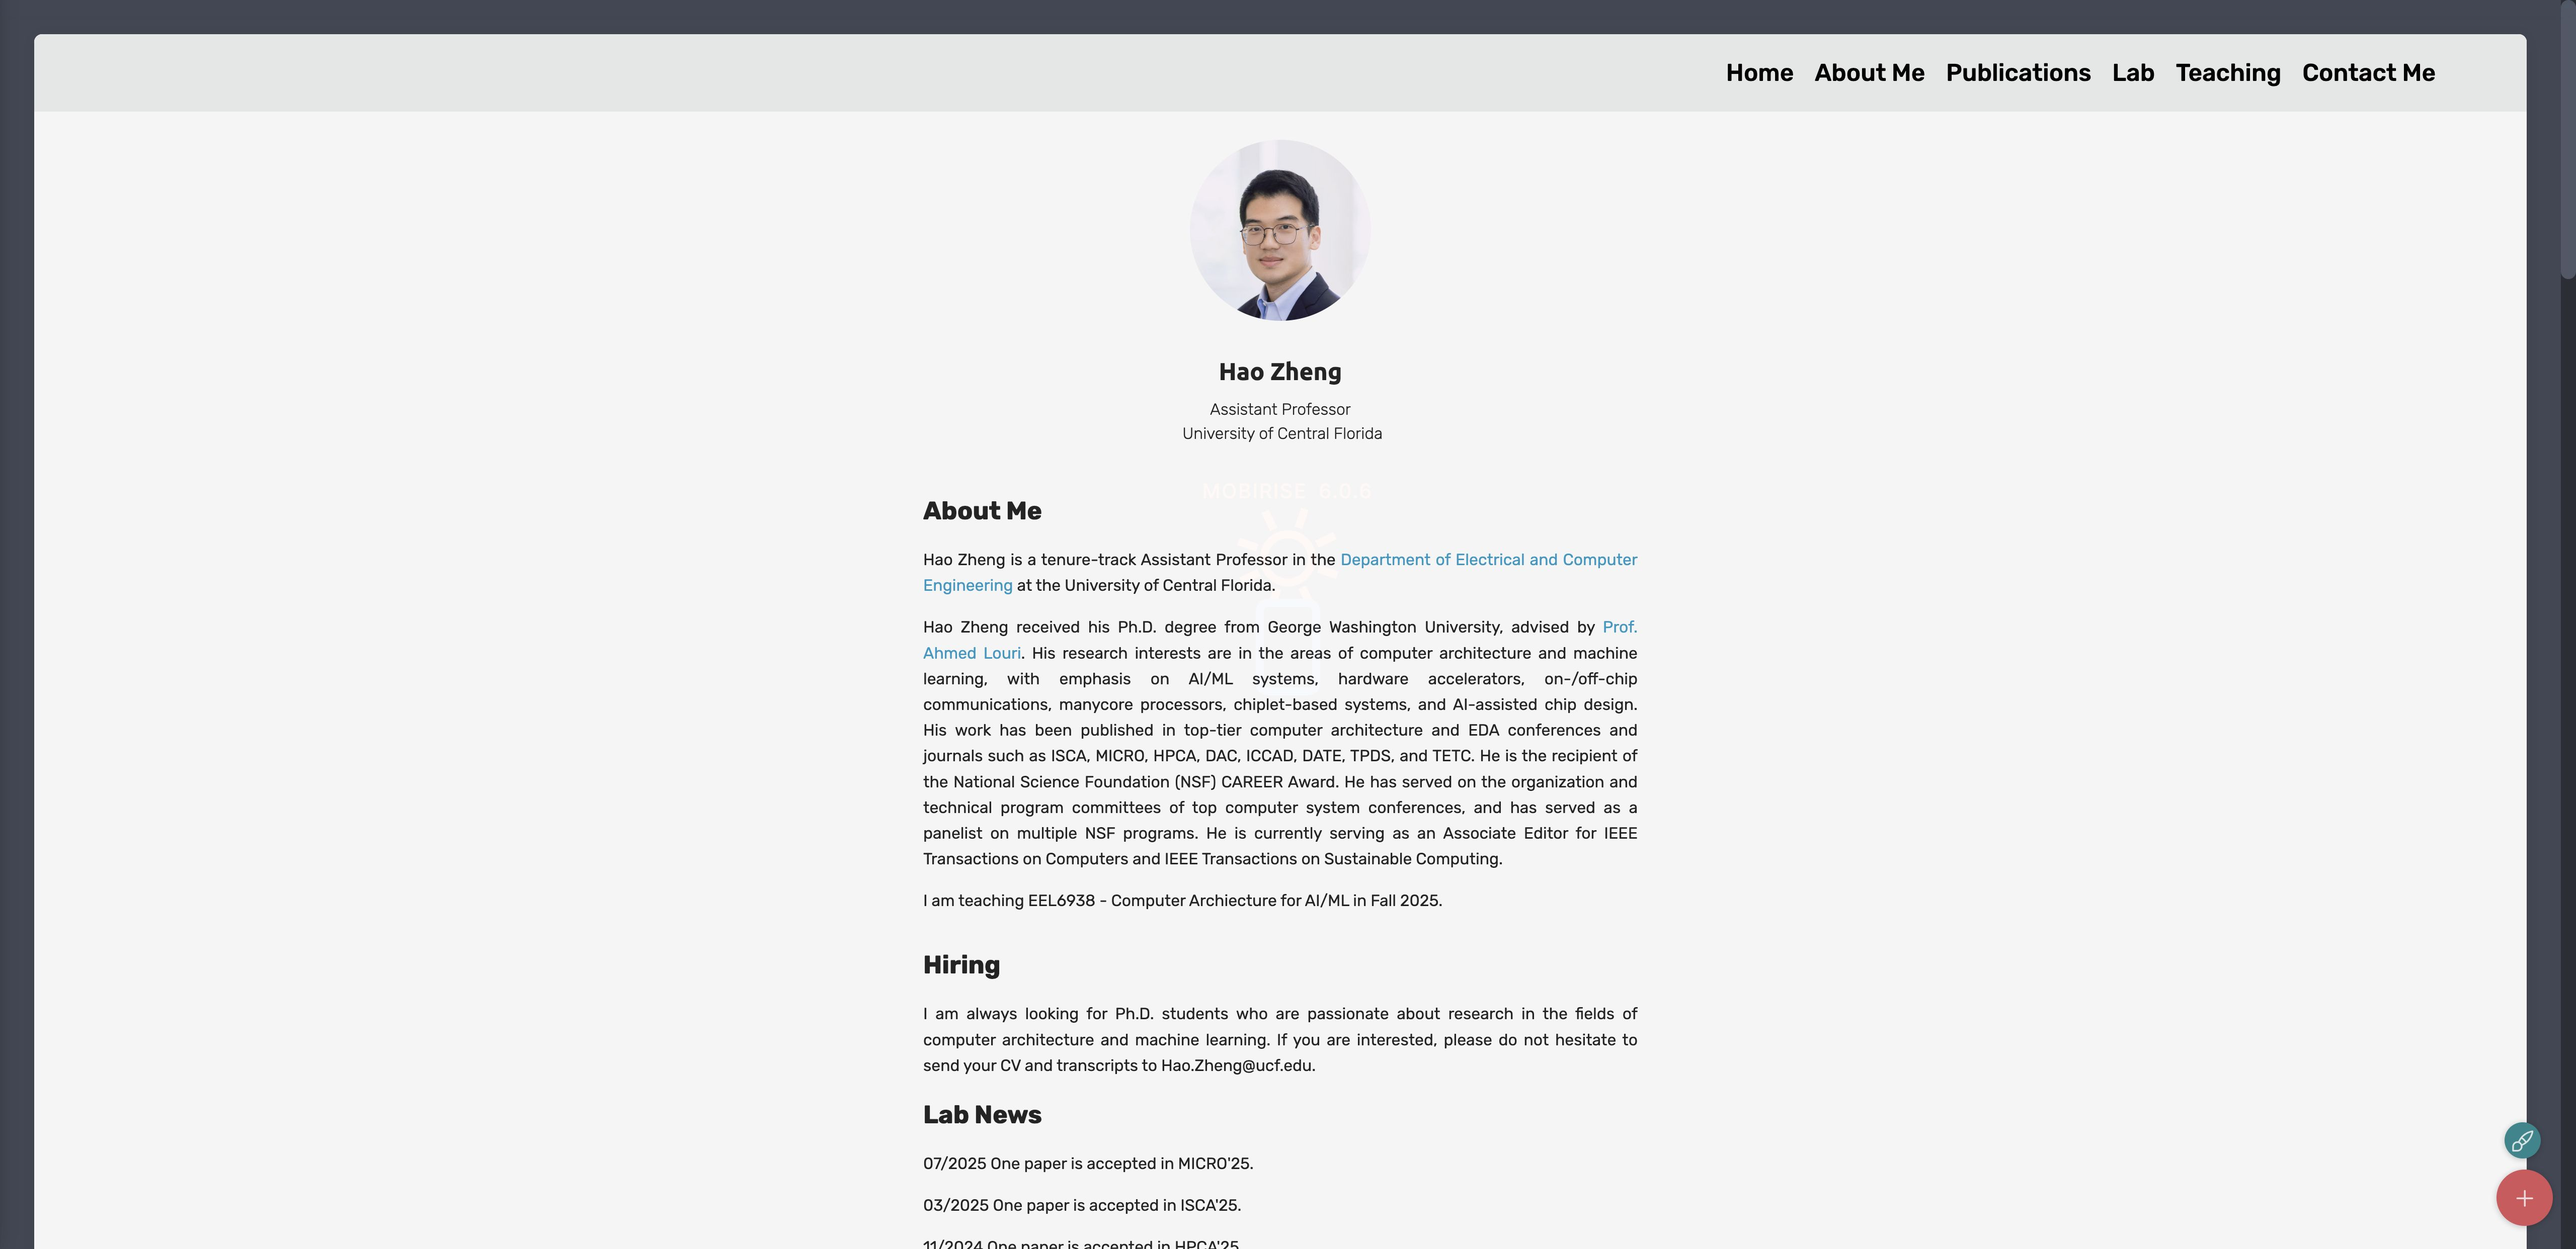
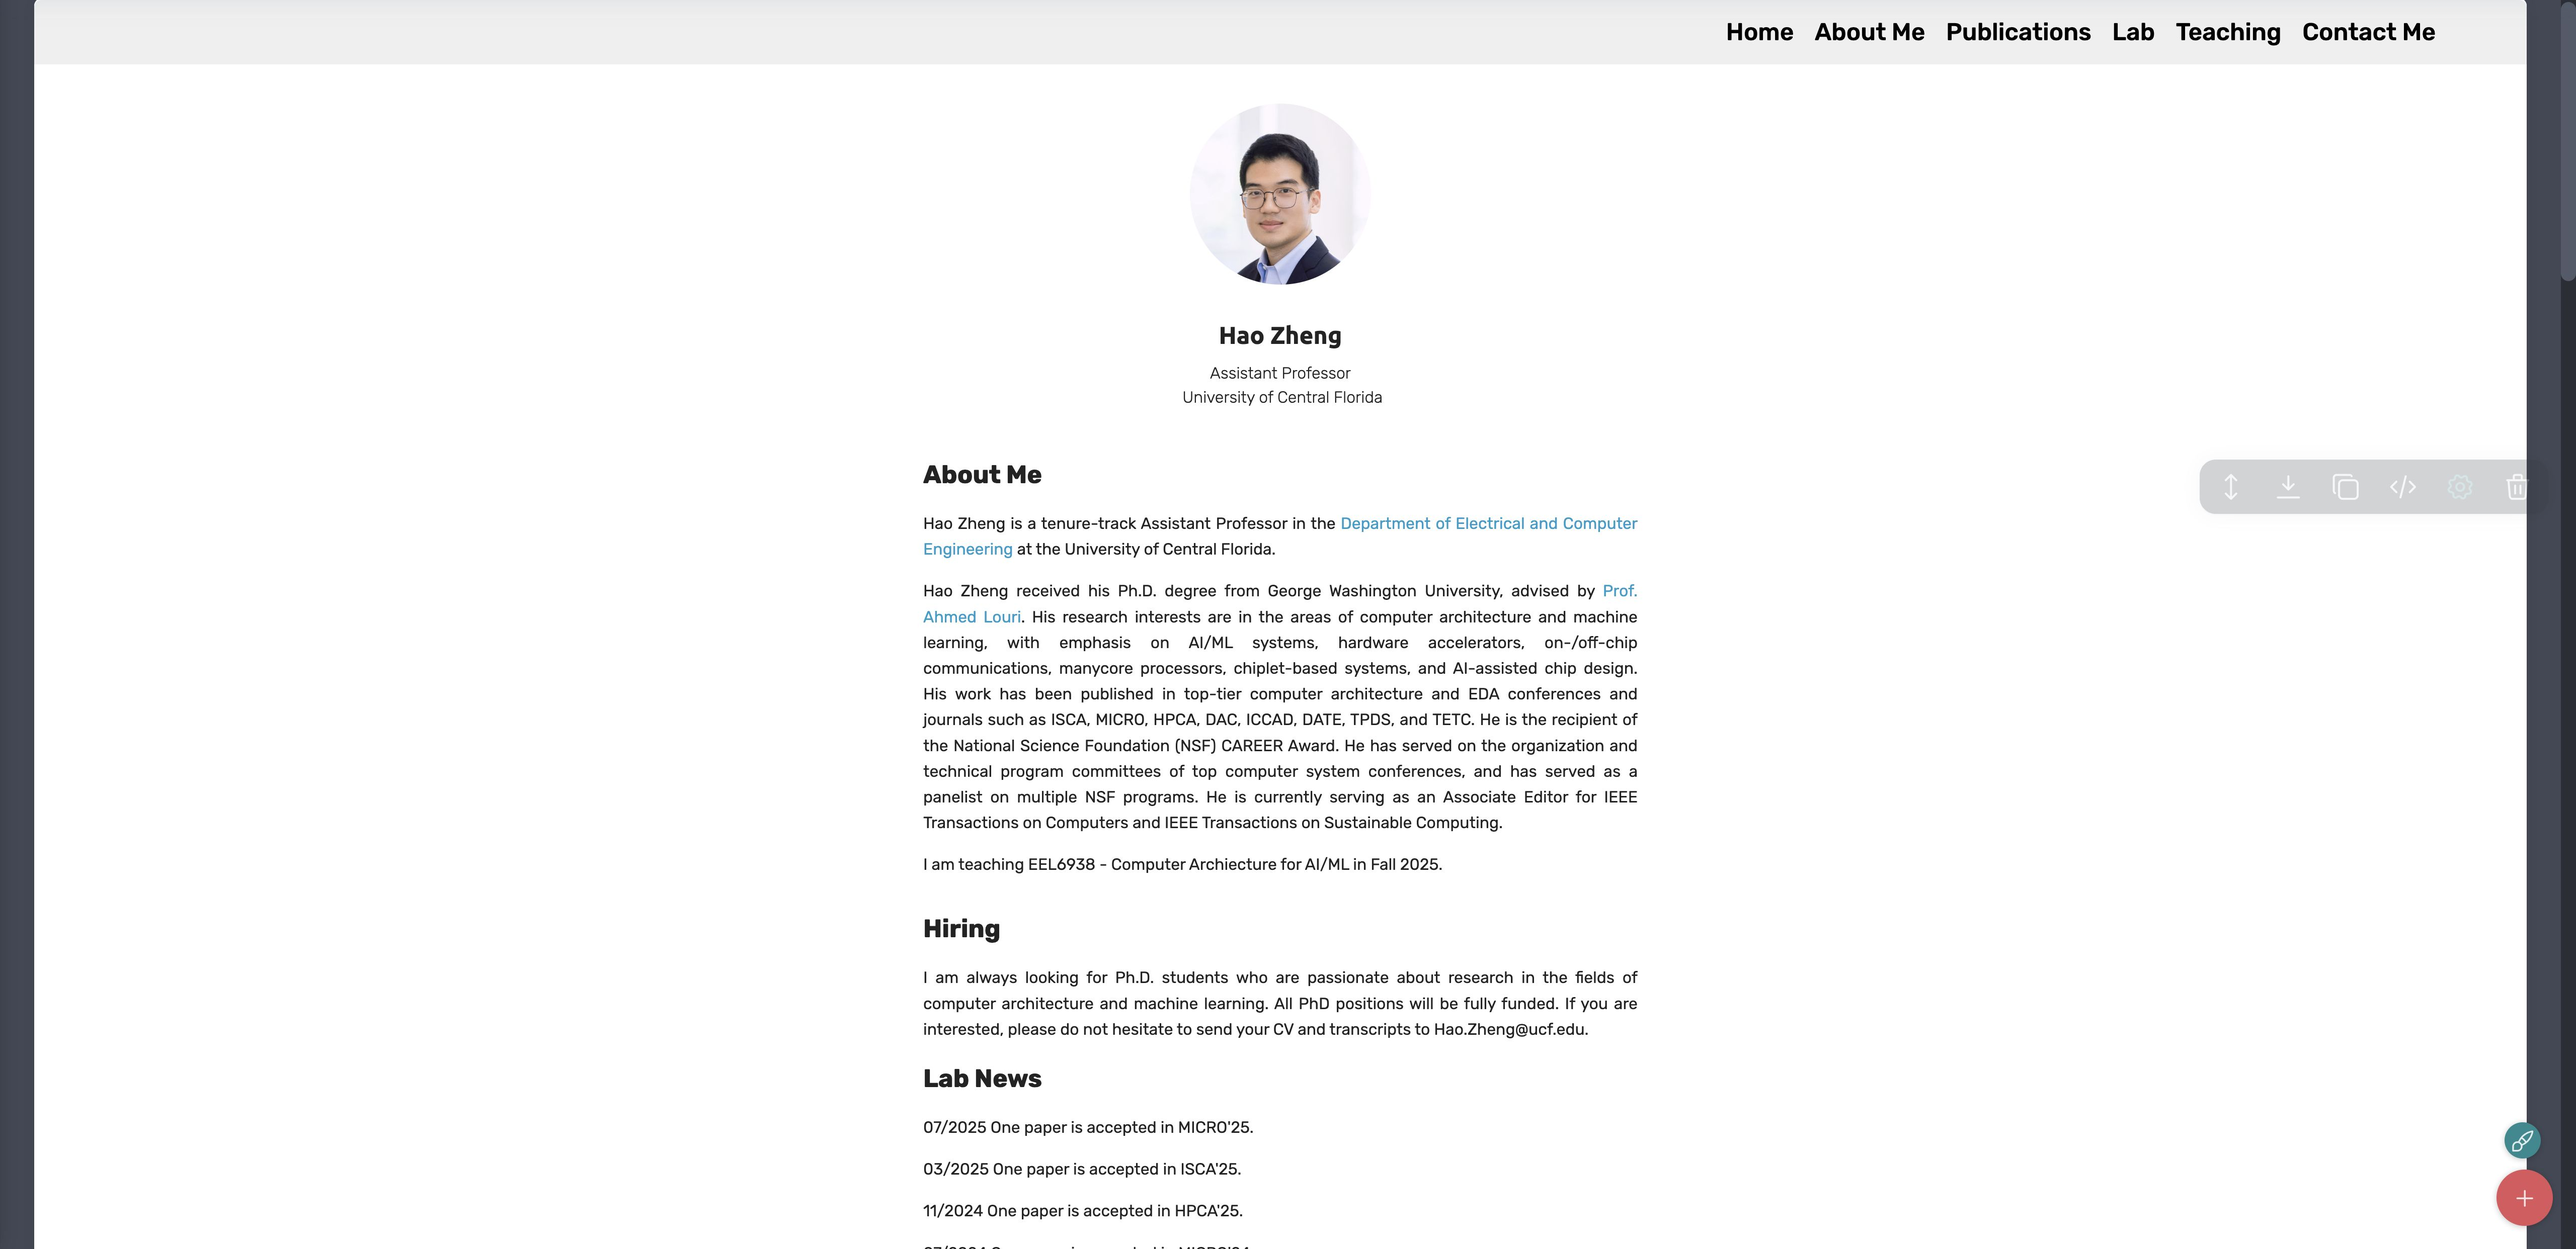
v3.9.5

Changed region(s): [[0.3438, 0.372, 0.6562, 1.0], [0.0, 0.0, 1.0, 0.372], [0.8438, 0.341, 1.0, 0.434]]

diff --git a/index.html b/index.html
@@ -22,7 +22,7 @@
   <noscript><link rel="stylesheet" href="https://fonts.googleapis.com/css?family=Ubuntu:300,300i,400,400i,500,500i,700,700i&display=swap"></noscript>
   <link rel="preload" href="https://fonts.googleapis.com/css?family=Rubik:300,400,500,600,700,800,900,300i,400i,500i,600i,700i,800i,900i&display=swap" as="style" onload="this.onload=null;this.rel='stylesheet'">
   <noscript><link rel="stylesheet" href="https://fonts.googleapis.com/css?family=Rubik:300,400,500,600,700,800,900,300i,400i,500i,600i,700i,800i,900i&display=swap"></noscript>
-  <link rel="preload" as="style" href="assets/mobirise/css/mbr-additional.css?v=GTirMR"><link rel="stylesheet" href="assets/mobirise/css/mbr-additional.css?v=GTirMR" type="text/css">
+  <link rel="preload" as="style" href="assets/mobirise/css/mbr-additional.css?v=I9ju79"><link rel="stylesheet" href="assets/mobirise/css/mbr-additional.css?v=I9ju79" type="text/css">
 
   
   
@@ -135,7 +135,7 @@
 
     <div class="container">
         <div class="media-container-row">
-            <div class="mbr-text col-12 mbr-fonts-style display-7 col-md-8"><p><span style="font-size: 25px;"><strong>Hiring</strong></span></p><p>I am always looking for Ph.D. students who are passionate about research in the fields of computer architecture and machine learning. All PhD positions will be fully funded. If you are interested, please do not hesitate to send your CV and transcripts to Hao.Zheng@ucf.edu.</p></div>
+            <div class="mbr-text col-12 mbr-fonts-style display-7 col-md-8"><p><span style="font-size: 25px;"><strong>Hiring</strong></span></p><p><strong>We have 3 Ph.D. openings for Fall/Spring 2026.</strong> We are looking for students who are passionate about research in the fields of computer architecture and machine learning. Our research aims to advance the theory and computer architecture developments for AI/ML, and the research outcomes will be integrated in real-world applications through our collaboration. All PhD positions will be fully funded. If you are interested, please do not hesitate to send your CV and transcripts to Hao.Zheng@ucf.edu.</p></div>
         </div>
     </div>
 </section>
@@ -217,7 +217,7 @@
     <div class="container">
         <div class="row">
             <div class="col-md-6">
-                <div class="google-map"><iframe frameborder="0" style="border:0" src="https://www.google.com/maps/embed/v1/place?key=AIzaSyB7QWkvlxV39ZsyKvhZRjPGVqlJFvxxNkw&amp;q=4328 Scorpius Street, Orlando, Florida, 32816-2362 " allowfullscreen=""></iframe></div>
+                <div class="google-map"><iframe frameborder="0" style="border:0" src="https://www.google.com/maps/embed/v1/place?key=AIzaSyDbnCmnHmtigIYiD8jIfeHQv7gW2ANhHD4&amp;q=4328 Scorpius Street, Orlando, Florida, 32816-2362 " allowfullscreen=""></iframe></div>
             </div>
             <div class="col-md-6">
                 
@@ -233,7 +233,7 @@
                 </div>
                 <div data-form-type="formoid">
                     <!---Formbuilder Form--->
-                    <form action="https://mobirise.eu/" method="POST" class="mbr-form form-with-styler" data-form-title="Mobirise Form"><input type="hidden" name="email" data-form-email="true" value="qxSbpaDnrf4ofAgaV3/8S1oc8P/u2I2lqvH7Pg1fnbKIar1Rce5aSN23zphj/B5DcFLAgJhtqZZ5GZs3GtR/CabhzfMtAivFCBSgXQEXE+bl5k35nRii+y1CO2qJvgxr.xBwrkdkgbg+a9LjhPyQgXQEpC2zk5YFgYYY7HiC9146Qd87rQFBfFFWC2gg04zKBSl3Fg66sb4nl3VSAq840jBeRd5dNXJmSBKLbQh9sD70yA+KYGe39NLDyqueSjQ44">
+                    <form action="https://mobirise.eu/" method="POST" class="mbr-form form-with-styler" data-form-title="Mobirise Form"><input type="hidden" name="email" data-form-email="true" value="ZFKmAVzQ7Nou7h+yjtyki2CVQX/4Cy2fmivggWSRdQ61YYagng+z24GTX2S1h2bvQlEUYQkwxx3qY+HgneulvzhlEoKs+k0Q+pJz+YAWP6pdprvEbz16VnalpAhdmIdB.mK3ZYMGXvpLnxiHj0yZe7IVrU8e72Q6QnwSsIGw6XCcs6rJwh1WMmWl3BgtqNKp7MzsKkzBvmv7saM3AAcUurBDQ5nRHRqnVIF4/2f16g1u3g/O5GjT4HKJPZe3YQQfF">
                         <div class="row">
                             <div hidden="hidden" data-form-alert="" class="alert alert-success col-12">Thanks for filling out the form!</div>
                             <div hidden="hidden" data-form-alert-danger="" class="alert alert-danger col-12">

diff --git a/News.html b/News.html
@@ -22,7 +22,7 @@
   <noscript><link rel="stylesheet" href="https://fonts.googleapis.com/css?family=Ubuntu:300,300i,400,400i,500,500i,700,700i&display=swap"></noscript>
   <link rel="preload" href="https://fonts.googleapis.com/css?family=Rubik:300,400,500,600,700,800,900,300i,400i,500i,600i,700i,800i,900i&display=swap" as="style" onload="this.onload=null;this.rel='stylesheet'">
   <noscript><link rel="stylesheet" href="https://fonts.googleapis.com/css?family=Rubik:300,400,500,600,700,800,900,300i,400i,500i,600i,700i,800i,900i&display=swap"></noscript>
-  <link rel="preload" as="style" href="assets/mobirise/css/mbr-additional.css?v=7HNCTN"><link rel="stylesheet" href="assets/mobirise/css/mbr-additional.css?v=7HNCTN" type="text/css">
+  <link rel="preload" as="style" href="assets/mobirise/css/mbr-additional.css?v=o1C1m0"><link rel="stylesheet" href="assets/mobirise/css/mbr-additional.css?v=o1C1m0" type="text/css">
 
   
   

diff --git a/Publications.html b/Publications.html
@@ -22,7 +22,7 @@
   <noscript><link rel="stylesheet" href="https://fonts.googleapis.com/css?family=Ubuntu:300,300i,400,400i,500,500i,700,700i&display=swap"></noscript>
   <link rel="preload" href="https://fonts.googleapis.com/css?family=Rubik:300,400,500,600,700,800,900,300i,400i,500i,600i,700i,800i,900i&display=swap" as="style" onload="this.onload=null;this.rel='stylesheet'">
   <noscript><link rel="stylesheet" href="https://fonts.googleapis.com/css?family=Rubik:300,400,500,600,700,800,900,300i,400i,500i,600i,700i,800i,900i&display=swap"></noscript>
-  <link rel="preload" as="style" href="assets/mobirise/css/mbr-additional.css?v=GLUl3I"><link rel="stylesheet" href="assets/mobirise/css/mbr-additional.css?v=GLUl3I" type="text/css">
+  <link rel="preload" as="style" href="assets/mobirise/css/mbr-additional.css?v=4euWud"><link rel="stylesheet" href="assets/mobirise/css/mbr-additional.css?v=4euWud" type="text/css">
 
   
   

diff --git a/lab.html b/lab.html
@@ -23,7 +23,7 @@
   <noscript><link rel="stylesheet" href="https://fonts.googleapis.com/css?family=Ubuntu:300,300i,400,400i,500,500i,700,700i&display=swap"></noscript>
   <link rel="preload" href="https://fonts.googleapis.com/css?family=Rubik:300,400,500,600,700,800,900,300i,400i,500i,600i,700i,800i,900i&display=swap" as="style" onload="this.onload=null;this.rel='stylesheet'">
   <noscript><link rel="stylesheet" href="https://fonts.googleapis.com/css?family=Rubik:300,400,500,600,700,800,900,300i,400i,500i,600i,700i,800i,900i&display=swap"></noscript>
-  <link rel="preload" as="style" href="assets/mobirise/css/mbr-additional.css?v=7XuOgI"><link rel="stylesheet" href="assets/mobirise/css/mbr-additional.css?v=7XuOgI" type="text/css">
+  <link rel="preload" as="style" href="assets/mobirise/css/mbr-additional.css?v=8FHBTC"><link rel="stylesheet" href="assets/mobirise/css/mbr-additional.css?v=8FHBTC" type="text/css">
 
   
   

diff --git a/personal.html b/personal.html
@@ -23,7 +23,7 @@
   <noscript><link rel="stylesheet" href="https://fonts.googleapis.com/css?family=Ubuntu:300,300i,400,400i,500,500i,700,700i&display=swap"></noscript>
   <link rel="preload" href="https://fonts.googleapis.com/css?family=Rubik:300,400,500,600,700,800,900,300i,400i,500i,600i,700i,800i,900i&display=swap" as="style" onload="this.onload=null;this.rel='stylesheet'">
   <noscript><link rel="stylesheet" href="https://fonts.googleapis.com/css?family=Rubik:300,400,500,600,700,800,900,300i,400i,500i,600i,700i,800i,900i&display=swap"></noscript>
-  <link rel="preload" as="style" href="assets/mobirise/css/mbr-additional.css?v=95bjMy"><link rel="stylesheet" href="assets/mobirise/css/mbr-additional.css?v=95bjMy" type="text/css">
+  <link rel="preload" as="style" href="assets/mobirise/css/mbr-additional.css?v=o71T5q"><link rel="stylesheet" href="assets/mobirise/css/mbr-additional.css?v=o71T5q" type="text/css">
 
   
   

diff --git a/research.html b/research.html
@@ -22,7 +22,7 @@
   <noscript><link rel="stylesheet" href="https://fonts.googleapis.com/css?family=Ubuntu:300,300i,400,400i,500,500i,700,700i&display=swap"></noscript>
   <link rel="preload" href="https://fonts.googleapis.com/css?family=Rubik:300,400,500,600,700,800,900,300i,400i,500i,600i,700i,800i,900i&display=swap" as="style" onload="this.onload=null;this.rel='stylesheet'">
   <noscript><link rel="stylesheet" href="https://fonts.googleapis.com/css?family=Rubik:300,400,500,600,700,800,900,300i,400i,500i,600i,700i,800i,900i&display=swap"></noscript>
-  <link rel="preload" as="style" href="assets/mobirise/css/mbr-additional.css?v=H59wro"><link rel="stylesheet" href="assets/mobirise/css/mbr-additional.css?v=H59wro" type="text/css">
+  <link rel="preload" as="style" href="assets/mobirise/css/mbr-additional.css?v=HWj7sF"><link rel="stylesheet" href="assets/mobirise/css/mbr-additional.css?v=HWj7sF" type="text/css">
 
   
   

diff --git a/teaching.html b/teaching.html
@@ -22,7 +22,7 @@
   <noscript><link rel="stylesheet" href="https://fonts.googleapis.com/css?family=Ubuntu:300,300i,400,400i,500,500i,700,700i&display=swap"></noscript>
   <link rel="preload" href="https://fonts.googleapis.com/css?family=Rubik:300,400,500,600,700,800,900,300i,400i,500i,600i,700i,800i,900i&display=swap" as="style" onload="this.onload=null;this.rel='stylesheet'">
   <noscript><link rel="stylesheet" href="https://fonts.googleapis.com/css?family=Rubik:300,400,500,600,700,800,900,300i,400i,500i,600i,700i,800i,900i&display=swap"></noscript>
-  <link rel="preload" as="style" href="assets/mobirise/css/mbr-additional.css?v=7nxrrX"><link rel="stylesheet" href="assets/mobirise/css/mbr-additional.css?v=7nxrrX" type="text/css">
+  <link rel="preload" as="style" href="assets/mobirise/css/mbr-additional.css?v=CaYSsy"><link rel="stylesheet" href="assets/mobirise/css/mbr-additional.css?v=CaYSsy" type="text/css">
 
   
   
